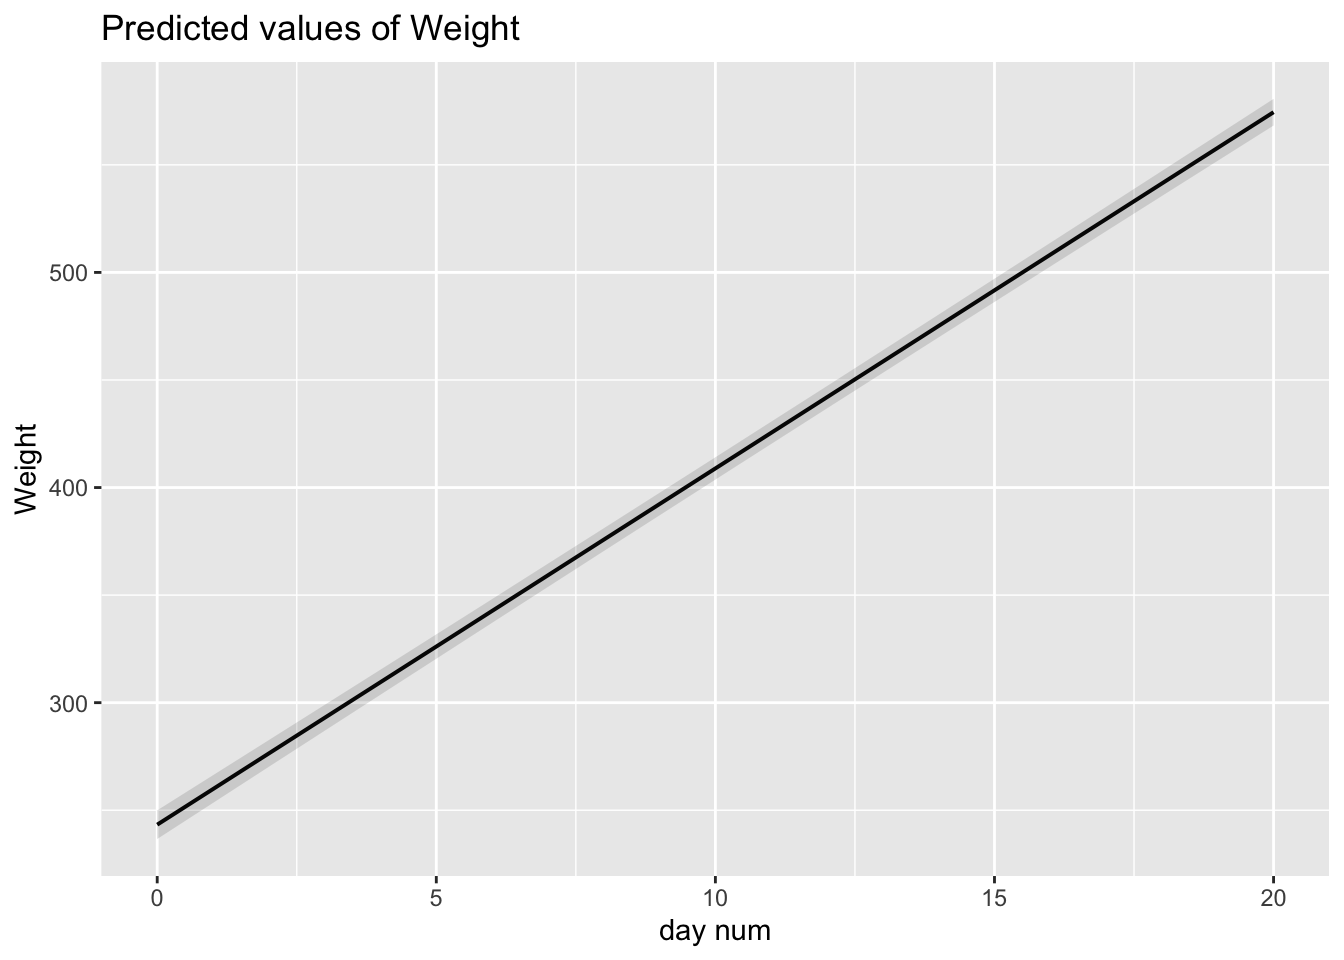
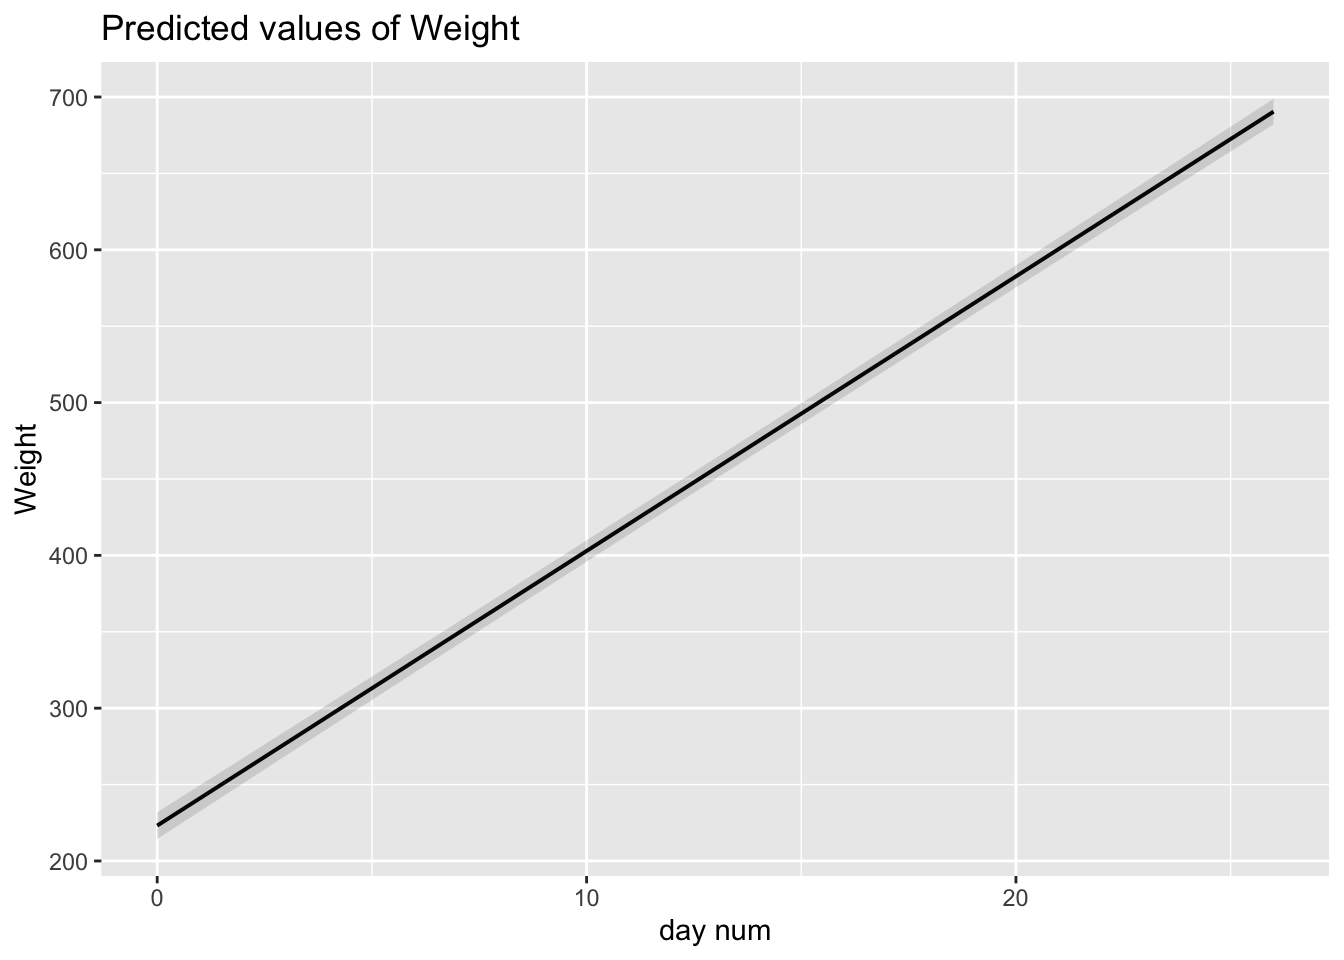
Update data

diff --git a/public/post/measuring-and-modeling-foster-kitten-growth-r-stats-with-cats/index.html b/public/post/measuring-and-modeling-foster-kitten-growth-r-stats-with-cats/index.html
@@ -17,8 +17,8 @@
       
     
   
-  <meta name="description" content="My partner brought home a box of three week old kittens that had been brought to her work. The man who found them said that during a heavy rainstorm heard tiny meows in his yard and then saw a little kitten face scrambling to get out of a depression. He went to rescue the baby kitten and found FIVE kittens, most of them were totally submerged in rising water.
-When we got the kittens home, I did the best thing I knew how to do: start collecting data on their growth.">
+  <meta name="description" content="Data Updated 2019-07-04
+My partner brought home a box of three week old kittens that had been brought to her work. The man who found them said that during a heavy rainstorm heard tiny meows in his yard and then saw a little kitten face scrambling to get out of a depression. He went to rescue the baby kitten and found FIVE kittens, most of them were totally submerged in rising water.">
 
   
   <link rel="alternate" hreflang="en-us" href="/post/measuring-and-modeling-foster-kitten-growth-r-stats-with-cats/">
@@ -90,8 +90,8 @@ When we got the kittens home, I did the best thing I knew how to do: start colle
   <meta property="og:site_name" content="Peter Vielehr">
   <meta property="og:url" content="/post/measuring-and-modeling-foster-kitten-growth-r-stats-with-cats/">
   <meta property="og:title" content="Measuring and Modeling Foster Kitten Growth: R Stats with Cats | Peter Vielehr">
-  <meta property="og:description" content="My partner brought home a box of three week old kittens that had been brought to her work. The man who found them said that during a heavy rainstorm heard tiny meows in his yard and then saw a little kitten face scrambling to get out of a depression. He went to rescue the baby kitten and found FIVE kittens, most of them were totally submerged in rising water.
-When we got the kittens home, I did the best thing I knew how to do: start collecting data on their growth.">
+  <meta property="og:description" content="Data Updated 2019-07-04
+My partner brought home a box of three week old kittens that had been brought to her work. The man who found them said that during a heavy rainstorm heard tiny meows in his yard and then saw a little kitten face scrambling to get out of a depression. He went to rescue the baby kitten and found FIVE kittens, most of them were totally submerged in rising water.">
   <meta property="og:locale" content="en-us">
   
   <meta property="article:published_time" content="2019-06-29T00:00:00&#43;00:00">
@@ -343,7 +343,8 @@ When we got the kittens home, I did the best thing I knew how to do: start colle
 
 
     <div class="article-style" itemprop="articleBody">
-      <p><img src="../../img/box_cats1.JPG" /></p>
+      <p><em>Data Updated 2019-07-04</em></p>
+<p><img src="../../img/box_cats1.JPG" /></p>
 <p>My partner brought home a box of three week old kittens that had been brought to her work. The man who found them said that during a heavy rainstorm heard tiny meows in his yard and then saw a little kitten face scrambling to get out of a depression. He went to rescue the baby kitten and found <strong>FIVE</strong> kittens, most of them were totally submerged in rising water.</p>
 <p>When we got the kittens home, I did the best thing I knew how to do: start collecting data on their growth.</p>
 <p>We color coded their tail tips with the nail polish we had on hand which led to their color names.</p>
@@ -476,11 +477,11 @@ kittens.sep</code></pre>
 <pre class="r"><code>kittentraj + 
   geom_point(aes(group = seq_along(Date))) +
   transition_reveal(Date)</code></pre>
-<p><img src="../../img/kitten%20trajectories_animation2019-06-28.gif" /></p>
+<p><img src="/post/2019-06-29-measuring-and-modeling-foster-kitten-growth-r-stats-with-cats_files/figure-html/unnamed-chunk-2-1.gif" /><!-- --></p>
 <pre class="r"><code>kittens.sep + 
   geom_point(aes(group = seq_along(Date))) +
   transition_reveal(Date)</code></pre>
-<p><img src="../../img/kitten_ind_trajectories_animation2019-06-28.gif" /></p>
+<p><img src="/post/2019-06-29-measuring-and-modeling-foster-kitten-growth-r-stats-with-cats_files/figure-html/unnamed-chunk-3-1.gif" /><!-- --></p>
 </div>
 <div id="averaging-growth-trends" class="section level2">
 <h2>Averaging growth trends</h2>
@@ -495,24 +496,24 @@ summary(weightlm)</code></pre>
 ## 
 ## Residuals:
 ##     Min      1Q  Median      3Q     Max 
-## -44.245  -8.037  -0.588   7.618  40.804 
+## -46.721 -13.330  -0.898  11.545  67.354 
 ## 
 ## Coefficients:
 ##                           Estimate Std. Error t value Pr(&gt;|t|)    
-## (Intercept)               243.2866     3.4022  71.509  &lt; 2e-16 ***
-## day.num                    16.5599     0.1946  85.099  &lt; 2e-16 ***
-## Pre_post.eatingPre-eating -17.5656     2.1596  -8.134 1.15e-13 ***
-## CatGreen                   28.5020     3.3920   8.403 2.38e-14 ***
-## CatLavender                 7.8313     3.3920   2.309 0.022252 *  
-## CatMaroon                  11.4242     3.3914   3.369 0.000949 ***
-## CatNo Tip                  25.3505     3.3920   7.474 5.02e-12 ***
+## (Intercept)               223.1480     4.4806  49.803  &lt; 2e-16 ***
+## day.num                    17.9733     0.2032  88.473  &lt; 2e-16 ***
+## Pre_post.eatingPre-eating -18.3962     2.8828  -6.381 1.22e-09 ***
+## CatGreen                   37.8633     4.5103   8.395 8.83e-15 ***
+## CatLavender                25.1123     4.5103   5.568 8.33e-08 ***
+## CatMaroon                  18.4634     4.5097   4.094 6.17e-05 ***
+## CatNo Tip                  36.9365     4.5103   8.189 3.18e-14 ***
 ## ---
 ## Signif. codes:  0 &#39;***&#39; 0.001 &#39;**&#39; 0.01 &#39;*&#39; 0.05 &#39;.&#39; 0.1 &#39; &#39; 1
 ## 
-## Residual standard error: 13.78 on 158 degrees of freedom
-## Multiple R-squared:  0.9797, Adjusted R-squared:  0.9789 
-## F-statistic:  1269 on 6 and 158 DF,  p-value: &lt; 2.2e-16</code></pre>
-<p><strong>The Kittens grow 16.5g per day on average!!</strong></p>
+## Residual standard error: 20.42 on 198 degrees of freedom
+## Multiple R-squared:  0.9766, Adjusted R-squared:  0.9759 
+## F-statistic:  1380 on 6 and 198 DF,  p-value: &lt; 2.2e-16</code></pre>
+<p><strong>The Kittens grow 18g per day on average!!</strong></p>
 <p>A few plots can be made to show the predicted weight of a cat over time and differences in the average weight of the cats.</p>
 <pre class="r"><code>plot_model(weightlm, type = &quot;pred&quot;, terms = c(&quot;day.num&quot;))</code></pre>
 <p><img src="/post/2019-06-29-measuring-and-modeling-foster-kitten-growth-r-stats-with-cats_files/figure-html/unnamed-chunk-5-1.png" width="672" /></p>
@@ -533,27 +534,27 @@ summary(weightlm.int)</code></pre>
 ## 
 ## Residuals:
 ##     Min      1Q  Median      3Q     Max 
-## -38.766  -8.257  -0.451   7.525  31.670 
+## -44.058  -9.966  -0.936  11.593  44.649 
 ## 
 ## Coefficients:
 ##                           Estimate Std. Error t value Pr(&gt;|t|)    
-## (Intercept)               253.5011     5.0802  49.900  &lt; 2e-16 ***
-## day.num                    15.5791     0.4178  37.284  &lt; 2e-16 ***
-## Pre_post.eatingPre-eating -17.4895     2.0853  -8.387 2.97e-14 ***
-## CatGreen                   23.5565     6.9936   3.368 0.000956 ***
-## CatLavender               -15.1276     6.9894  -2.164 0.031977 *  
-## CatMaroon                   0.6035     6.9893   0.086 0.931304    
-## CatNo Tip                  12.7692     6.9936   1.826 0.069811 .  
-## day.num:CatGreen            0.4728     0.5910   0.800 0.424933    
-## day.num:CatLavender         2.1963     0.5908   3.717 0.000281 ***
-## day.num:CatMaroon           1.0350     0.5908   1.752 0.081763 .  
-## day.num:CatNo Tip           1.2032     0.5910   2.036 0.043485 *  
+## (Intercept)               252.9622     5.8871  42.969  &lt; 2e-16 ***
+## day.num                    15.6599     0.3874  40.422  &lt; 2e-16 ***
+## Pre_post.eatingPre-eating -18.2099     2.4816  -7.338 5.79e-12 ***
+## CatGreen                   10.2569     8.0715   1.271 0.205341    
+## CatLavender               -34.0351     8.0683  -4.218 3.77e-05 ***
+## CatMaroon                  -6.6615     8.0682  -0.826 0.410018    
+## CatNo Tip                  -0.8333     8.0715  -0.103 0.917884    
+## day.num:CatGreen            2.1352     0.5474   3.901 0.000132 ***
+## day.num:CatLavender         4.5759     0.5473   8.362 1.19e-14 ***
+## day.num:CatMaroon           1.9436     0.5472   3.552 0.000481 ***
+## day.num:CatNo Tip           2.9215     0.5474   5.337 2.62e-07 ***
 ## ---
 ## Signif. codes:  0 &#39;***&#39; 0.001 &#39;**&#39; 0.01 &#39;*&#39; 0.05 &#39;.&#39; 0.1 &#39; &#39; 1
 ## 
-## Residual standard error: 13.29 on 154 degrees of freedom
-## Multiple R-squared:  0.9816, Adjusted R-squared:  0.9804 
-## F-statistic: 819.5 on 10 and 154 DF,  p-value: &lt; 2.2e-16</code></pre>
+## Residual standard error: 17.57 on 194 degrees of freedom
+## Multiple R-squared:  0.9831, Adjusted R-squared:  0.9822 
+## F-statistic:  1126 on 10 and 194 DF,  p-value: &lt; 2.2e-16</code></pre>
 <pre class="r"><code>plot_model(weightlm.int, type = &quot;pred&quot;, terms = c(&quot;day.num&quot;, &quot;Cat&quot;),
            colors = kittens.coded$color)</code></pre>
 <p><img src="/post/2019-06-29-measuring-and-modeling-foster-kitten-growth-r-stats-with-cats_files/figure-html/unnamed-chunk-7-1.png" width="672" /></p>

diff --git a/content/post/2019-06-29-measuring-and-modeling-foster-kitten-growth-r-stats-with-cats.html b/content/post/2019-06-29-measuring-and-modeling-foster-kitten-growth-r-stats-with-cats.html
@@ -14,6 +14,7 @@ header:
 
 
 
+<p><em>Data Updated 2019-07-04</em></p>
 <p><img src="../../img/box_cats1.JPG" /></p>
 <p>My partner brought home a box of three week old kittens that had been brought to her work. The man who found them said that during a heavy rainstorm heard tiny meows in his yard and then saw a little kitten face scrambling to get out of a depression. He went to rescue the baby kitten and found <strong>FIVE</strong> kittens, most of them were totally submerged in rising water.</p>
 <p>When we got the kittens home, I did the best thing I knew how to do: start collecting data on their growth.</p>
@@ -147,11 +148,11 @@ kittens.sep</code></pre>
 <pre class="r"><code>kittentraj + 
   geom_point(aes(group = seq_along(Date))) +
   transition_reveal(Date)</code></pre>
-<p><img src="../../img/kitten%20trajectories_animation2019-06-28.gif" /></p>
+<p><img src="/post/2019-06-29-measuring-and-modeling-foster-kitten-growth-r-stats-with-cats_files/figure-html/unnamed-chunk-2-1.gif" /><!-- --></p>
 <pre class="r"><code>kittens.sep + 
   geom_point(aes(group = seq_along(Date))) +
   transition_reveal(Date)</code></pre>
-<p><img src="../../img/kitten_ind_trajectories_animation2019-06-28.gif" /></p>
+<p><img src="/post/2019-06-29-measuring-and-modeling-foster-kitten-growth-r-stats-with-cats_files/figure-html/unnamed-chunk-3-1.gif" /><!-- --></p>
 </div>
 <div id="averaging-growth-trends" class="section level2">
 <h2>Averaging growth trends</h2>
@@ -166,24 +167,24 @@ summary(weightlm)</code></pre>
 ## 
 ## Residuals:
 ##     Min      1Q  Median      3Q     Max 
-## -44.245  -8.037  -0.588   7.618  40.804 
+## -46.721 -13.330  -0.898  11.545  67.354 
 ## 
 ## Coefficients:
 ##                           Estimate Std. Error t value Pr(&gt;|t|)    
-## (Intercept)               243.2866     3.4022  71.509  &lt; 2e-16 ***
-## day.num                    16.5599     0.1946  85.099  &lt; 2e-16 ***
-## Pre_post.eatingPre-eating -17.5656     2.1596  -8.134 1.15e-13 ***
-## CatGreen                   28.5020     3.3920   8.403 2.38e-14 ***
-## CatLavender                 7.8313     3.3920   2.309 0.022252 *  
-## CatMaroon                  11.4242     3.3914   3.369 0.000949 ***
-## CatNo Tip                  25.3505     3.3920   7.474 5.02e-12 ***
+## (Intercept)               223.1480     4.4806  49.803  &lt; 2e-16 ***
+## day.num                    17.9733     0.2032  88.473  &lt; 2e-16 ***
+## Pre_post.eatingPre-eating -18.3962     2.8828  -6.381 1.22e-09 ***
+## CatGreen                   37.8633     4.5103   8.395 8.83e-15 ***
+## CatLavender                25.1123     4.5103   5.568 8.33e-08 ***
+## CatMaroon                  18.4634     4.5097   4.094 6.17e-05 ***
+## CatNo Tip                  36.9365     4.5103   8.189 3.18e-14 ***
 ## ---
 ## Signif. codes:  0 &#39;***&#39; 0.001 &#39;**&#39; 0.01 &#39;*&#39; 0.05 &#39;.&#39; 0.1 &#39; &#39; 1
 ## 
-## Residual standard error: 13.78 on 158 degrees of freedom
-## Multiple R-squared:  0.9797, Adjusted R-squared:  0.9789 
-## F-statistic:  1269 on 6 and 158 DF,  p-value: &lt; 2.2e-16</code></pre>
-<p><strong>The Kittens grow 16.5g per day on average!!</strong></p>
+## Residual standard error: 20.42 on 198 degrees of freedom
+## Multiple R-squared:  0.9766, Adjusted R-squared:  0.9759 
+## F-statistic:  1380 on 6 and 198 DF,  p-value: &lt; 2.2e-16</code></pre>
+<p><strong>The Kittens grow 18g per day on average!!</strong></p>
 <p>A few plots can be made to show the predicted weight of a cat over time and differences in the average weight of the cats.</p>
 <pre class="r"><code>plot_model(weightlm, type = &quot;pred&quot;, terms = c(&quot;day.num&quot;))</code></pre>
 <p><img src="/post/2019-06-29-measuring-and-modeling-foster-kitten-growth-r-stats-with-cats_files/figure-html/unnamed-chunk-5-1.png" width="672" /></p>
@@ -204,27 +205,27 @@ summary(weightlm.int)</code></pre>
 ## 
 ## Residuals:
 ##     Min      1Q  Median      3Q     Max 
-## -38.766  -8.257  -0.451   7.525  31.670 
+## -44.058  -9.966  -0.936  11.593  44.649 
 ## 
 ## Coefficients:
 ##                           Estimate Std. Error t value Pr(&gt;|t|)    
-## (Intercept)               253.5011     5.0802  49.900  &lt; 2e-16 ***
-## day.num                    15.5791     0.4178  37.284  &lt; 2e-16 ***
-## Pre_post.eatingPre-eating -17.4895     2.0853  -8.387 2.97e-14 ***
-## CatGreen                   23.5565     6.9936   3.368 0.000956 ***
-## CatLavender               -15.1276     6.9894  -2.164 0.031977 *  
-## CatMaroon                   0.6035     6.9893   0.086 0.931304    
-## CatNo Tip                  12.7692     6.9936   1.826 0.069811 .  
-## day.num:CatGreen            0.4728     0.5910   0.800 0.424933    
-## day.num:CatLavender         2.1963     0.5908   3.717 0.000281 ***
-## day.num:CatMaroon           1.0350     0.5908   1.752 0.081763 .  
-## day.num:CatNo Tip           1.2032     0.5910   2.036 0.043485 *  
+## (Intercept)               252.9622     5.8871  42.969  &lt; 2e-16 ***
+## day.num                    15.6599     0.3874  40.422  &lt; 2e-16 ***
+## Pre_post.eatingPre-eating -18.2099     2.4816  -7.338 5.79e-12 ***
+## CatGreen                   10.2569     8.0715   1.271 0.205341    
+## CatLavender               -34.0351     8.0683  -4.218 3.77e-05 ***
+## CatMaroon                  -6.6615     8.0682  -0.826 0.410018    
+## CatNo Tip                  -0.8333     8.0715  -0.103 0.917884    
+## day.num:CatGreen            2.1352     0.5474   3.901 0.000132 ***
+## day.num:CatLavender         4.5759     0.5473   8.362 1.19e-14 ***
+## day.num:CatMaroon           1.9436     0.5472   3.552 0.000481 ***
+## day.num:CatNo Tip           2.9215     0.5474   5.337 2.62e-07 ***
 ## ---
 ## Signif. codes:  0 &#39;***&#39; 0.001 &#39;**&#39; 0.01 &#39;*&#39; 0.05 &#39;.&#39; 0.1 &#39; &#39; 1
 ## 
-## Residual standard error: 13.29 on 154 degrees of freedom
-## Multiple R-squared:  0.9816, Adjusted R-squared:  0.9804 
-## F-statistic: 819.5 on 10 and 154 DF,  p-value: &lt; 2.2e-16</code></pre>
+## Residual standard error: 17.57 on 194 degrees of freedom
+## Multiple R-squared:  0.9831, Adjusted R-squared:  0.9822 
+## F-statistic:  1126 on 10 and 194 DF,  p-value: &lt; 2.2e-16</code></pre>
 <pre class="r"><code>plot_model(weightlm.int, type = &quot;pred&quot;, terms = c(&quot;day.num&quot;, &quot;Cat&quot;),
            colors = kittens.coded$color)</code></pre>
 <p><img src="/post/2019-06-29-measuring-and-modeling-foster-kitten-growth-r-stats-with-cats_files/figure-html/unnamed-chunk-7-1.png" width="672" /></p>

diff --git a/public/categories/cats/index.html b/public/categories/cats/index.html
@@ -263,8 +263,8 @@
     <h2><a href="/post/measuring-and-modeling-foster-kitten-growth-r-stats-with-cats/">Measuring and Modeling Foster Kitten Growth: R Stats with Cats</a></h2>
     <div class="article-style">
       
-      My partner brought home a box of three week old kittens that had been brought to her work. The man who found them said that during a heavy rainstorm heard tiny meows in his yard and then saw a little kitten face scrambling to get out of a depression. He went to rescue the baby kitten and found FIVE kittens, most of them were totally submerged in rising water.
-When we got the kittens home, I did the best thing I knew how to do: start collecting data on their growth.
+      Data Updated 2019-07-04
+My partner brought home a box of three week old kittens that had been brought to her work. The man who found them said that during a heavy rainstorm heard tiny meows in his yard and then saw a little kitten face scrambling to get out of a depression. He went to rescue the baby kitten and found FIVE kittens, most of them were totally submerged in rising water.
       
     </div>
   </div>

diff --git a/public/index.html b/public/index.html
@@ -641,8 +641,8 @@
   </h3>
   <div class="article-style" itemprop="articleBody">
     
-    My partner brought home a box of three week old kittens that had been brought to her work. The man who found them said that during a heavy rainstorm heard tiny meows in his yard and then saw a little kitten face scrambling to get out of a depression. He went to rescue the baby kitten and found FIVE kittens, most of them were totally submerged in rising water.
-When we got the kittens home, I did the best thing I knew how to do: start collecting data on their growth.
+    Data Updated 2019-07-04
+My partner brought home a box of three week old kittens that had been brought to her work. The man who found them said that during a heavy rainstorm heard tiny meows in his yard and then saw a little kitten face scrambling to get out of a depression. He went to rescue the baby kitten and found FIVE kittens, most of them were totally submerged in rising water.
     
   </div>
   <p class="read-more" itemprop="mainEntityOfPage">

diff --git a/public/post/index.html b/public/post/index.html
@@ -299,8 +299,8 @@
   </h3>
   <div class="article-style" itemprop="articleBody">
     
-    My partner brought home a box of three week old kittens that had been brought to her work. The man who found them said that during a heavy rainstorm heard tiny meows in his yard and then saw a little kitten face scrambling to get out of a depression. He went to rescue the baby kitten and found FIVE kittens, most of them were totally submerged in rising water.
-When we got the kittens home, I did the best thing I knew how to do: start collecting data on their growth.
+    Data Updated 2019-07-04
+My partner brought home a box of three week old kittens that had been brought to her work. The man who found them said that during a heavy rainstorm heard tiny meows in his yard and then saw a little kitten face scrambling to get out of a depression. He went to rescue the baby kitten and found FIVE kittens, most of them were totally submerged in rising water.
     
   </div>
   <p class="read-more" itemprop="mainEntityOfPage">
